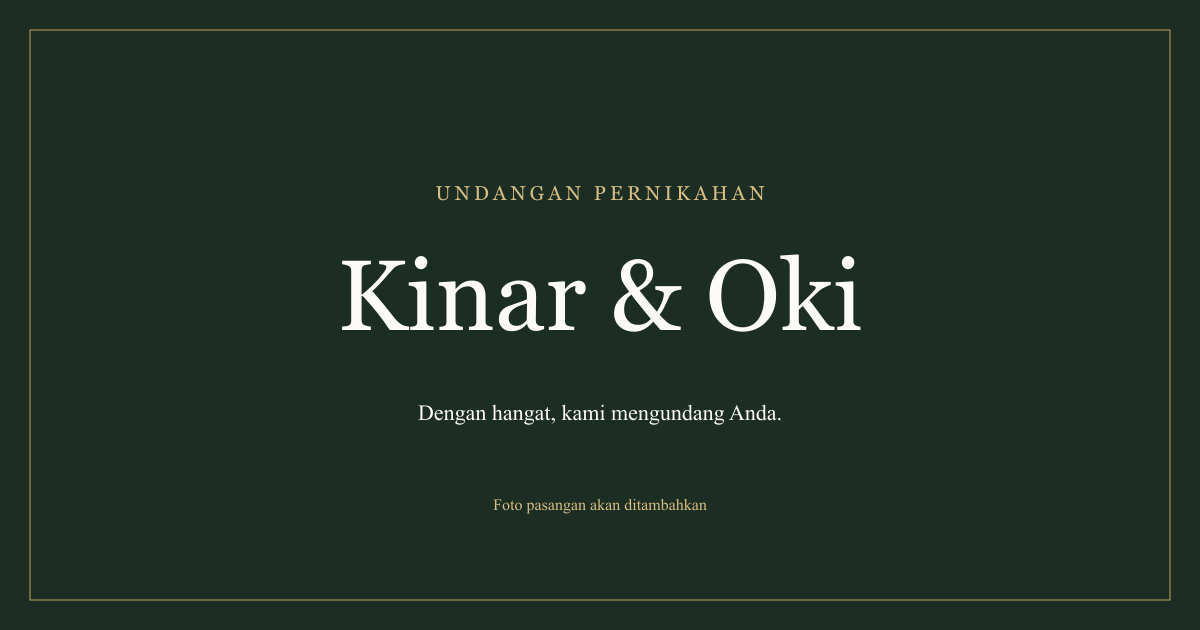
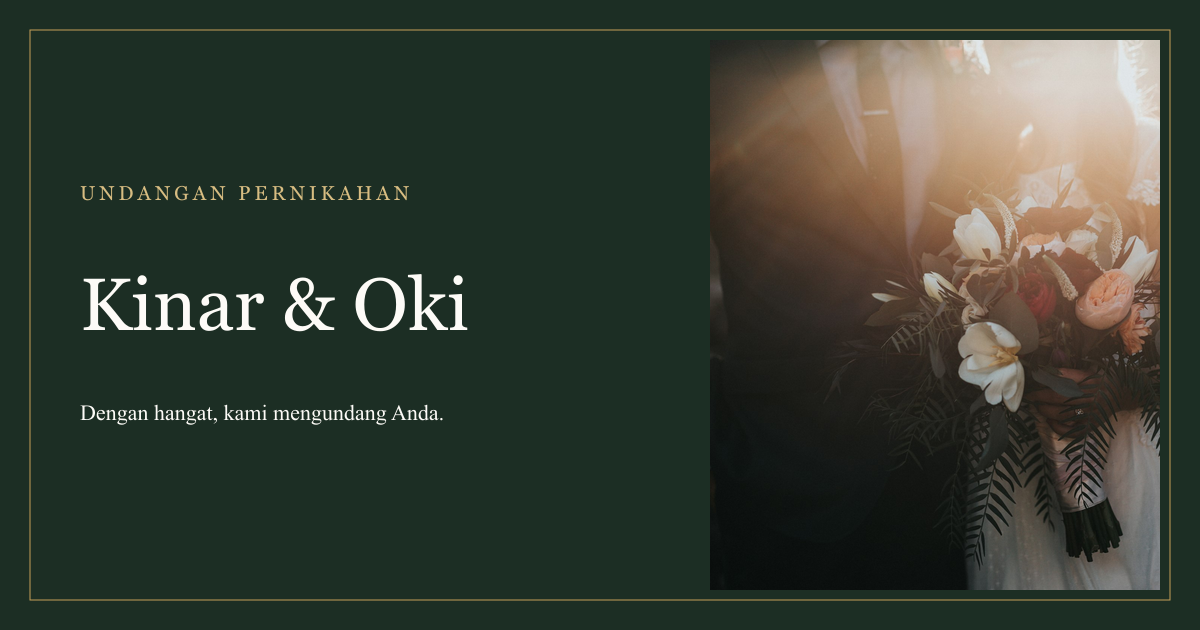
feat(assets): install curated realistic wedding dummy photography

Changed region(s): [[0.0617, 0.0603, 0.9867, 0.9349], [0.0617, 0.3016, 0.3392, 0.3317]]

diff --git a/src/config/wedding.config.ts b/src/config/wedding.config.ts
@@ -1,18 +1,63 @@
-import type { Photo, WeddingConfig } from "@/types/wedding";
-const placeholder = (alt: string): Photo => ({ src: "/images/placeholder.svg", alt, width: 1200, height: 1600, placeholder: true });
+import type { WeddingConfig } from "@/types/wedding";
+
 export const weddingConfig: WeddingConfig = {
   couple: {
     title: "Kinar & Oki",
-    bride: { nickname: "Kinar", fullName: null, father: null, mother: null, instagram: null, photo: placeholder("Placeholder foto Kinar") },
-    groom: { nickname: "Oki", fullName: null, father: null, mother: null, instagram: null, photo: placeholder("Placeholder foto Oki") },
+    bride: {
+      nickname: "Kinar",
+      fullName: null,
+      father: null,
+      mother: null,
+      instagram: null,
+      photo: {
+        src: "/images/dummy/bride.jpg",
+        alt: "Foto Mempelai Wanita - Kinar",
+        width: 800,
+        height: 1067,
+      },
+    },
+    groom: {
+      nickname: "Oki",
+      fullName: null,
+      father: null,
+      mother: null,
+      instagram: null,
+      photo: {
+        src: "/images/dummy/groom.jpg",
+        alt: "Foto Mempelai Pria - Oki",
+        width: 800,
+        height: 1067,
+      },
+    },
   },
   timezone: "Asia/Jakarta",
   locale: "id-ID",
   weddingDate: null,
-  hero: placeholder("Placeholder foto bersama Kinar dan Oki"),
+  hero: {
+    src: "/images/dummy/hero-couple.jpg",
+    alt: "Foto Pre-wedding Kinar & Oki",
+    width: 1200,
+    height: 1600,
+  },
   events: [
-    { id: "ceremony", title: "Prosesi Pernikahan", startsAt: null, endsAt: null, venue: null, address: null, location: null },
-    { id: "reception", title: "Resepsi", startsAt: null, endsAt: null, venue: null, address: null, location: null },
+    {
+      id: "ceremony",
+      title: "Prosesi Pernikahan",
+      startsAt: null,
+      endsAt: null,
+      venue: null,
+      address: null,
+      location: null,
+    },
+    {
+      id: "reception",
+      title: "Resepsi",
+      startsAt: null,
+      endsAt: null,
+      venue: null,
+      address: null,
+      location: null,
+    },
   ],
   story: [
     { id: "first-meet", title: "Pertemuan Pertama", date: null, description: null },
@@ -20,7 +65,32 @@ export const weddingConfig: WeddingConfig = {
     { id: "engagement", title: "Sebuah Komitmen", date: null, description: null },
     { id: "wedding", title: "Menuju Hari Bahagia", date: null, description: null },
   ],
-  gallery: [placeholder("Placeholder galeri foto 1"), placeholder("Placeholder galeri foto 2"), placeholder("Placeholder galeri foto 3"), placeholder("Placeholder galeri foto 4")],
+  gallery: [
+    {
+      src: "/images/dummy/gallery-1.jpg",
+      alt: "Momen Bahagia 1 - Bergandengan di Taman",
+      width: 800,
+      height: 1000,
+    },
+    {
+      src: "/images/dummy/gallery-2.jpg",
+      alt: "Momen Bahagia 2 - Cincin dan Bunga",
+      width: 800,
+      height: 800,
+    },
+    {
+      src: "/images/dummy/gallery-3.jpg",
+      alt: "Momen Bahagia 3 - Tatapan Kasih",
+      width: 800,
+      height: 800,
+    },
+    {
+      src: "/images/dummy/gallery-4.jpg",
+      alt: "Momen Bahagia 4 - Kebahagiaan Bersama",
+      width: 1200,
+      height: 750,
+    },
+  ],
   gifts: [],
   qris: null,
   music: null,
